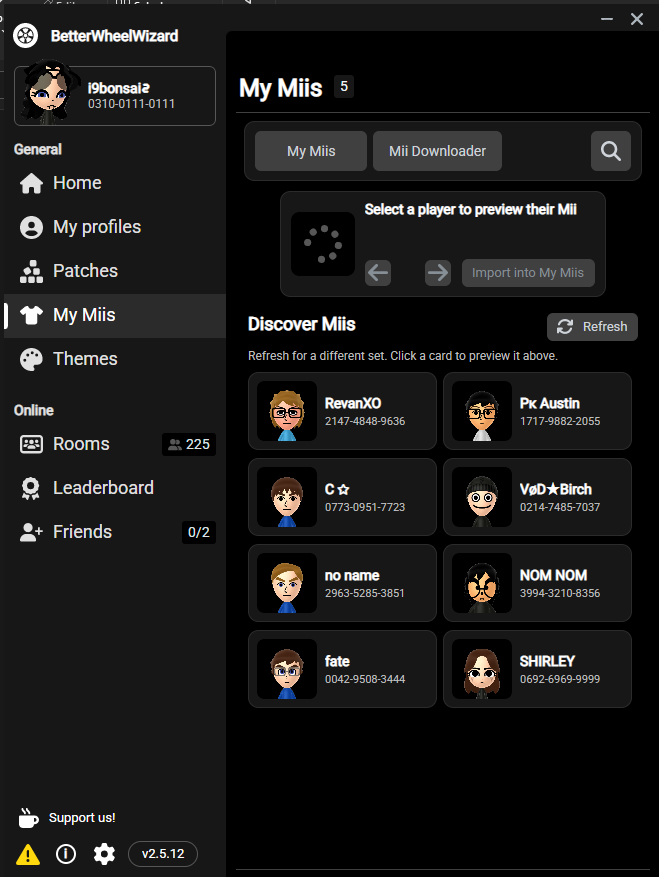
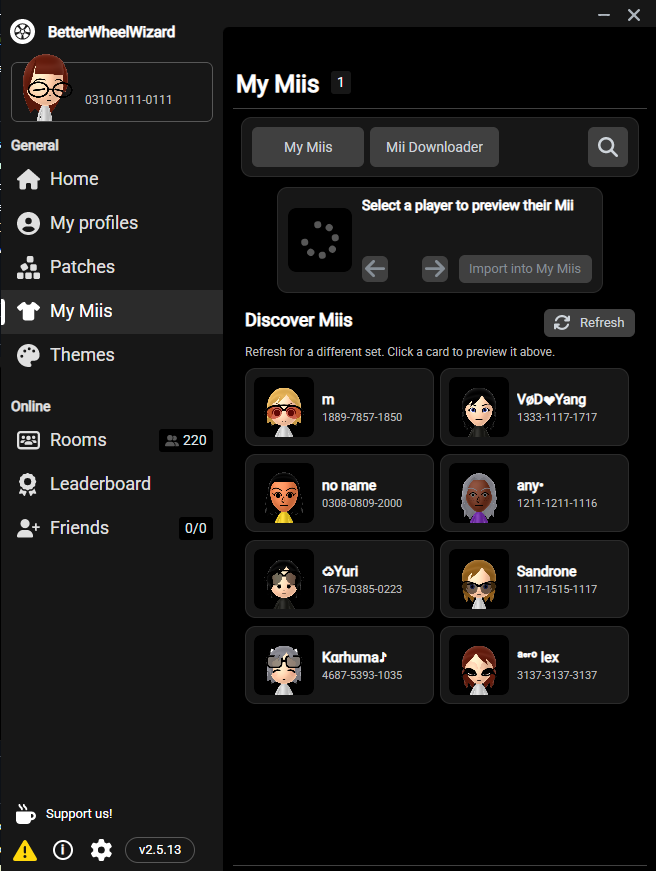
Add Mii Downloader README screenshot

diff --git a/README.md b/README.md
@@ -20,9 +20,11 @@ The Windows build is standalone. It does not need an installer or a separate .NE
 
 ## Screenshots
 
-| Themes | Leaderboard | Rooms |
-| --- | --- | --- |
-| [![Custom themes](docs/screenshots/custom-themes.png)](docs/screenshots/custom-themes.png) | [![Leaderboard](docs/screenshots/better-leaderboard.png)](docs/screenshots/better-leaderboard.png) | [![Rooms](docs/screenshots/better-rooms.png)](docs/screenshots/better-rooms.png) |
+| Themes | Leaderboard |
+| --- | --- |
+| [![Custom themes](docs/screenshots/custom-themes.png)](docs/screenshots/custom-themes.png) | [![Leaderboard](docs/screenshots/better-leaderboard.png)](docs/screenshots/better-leaderboard.png) |
+| Rooms | Mii Downloader |
+| [![Rooms](docs/screenshots/better-rooms.png)](docs/screenshots/better-rooms.png) | [![Mii Downloader](docs/screenshots/mii-downloader.png)](docs/screenshots/mii-downloader.png) |
 
 ## Setup
 
